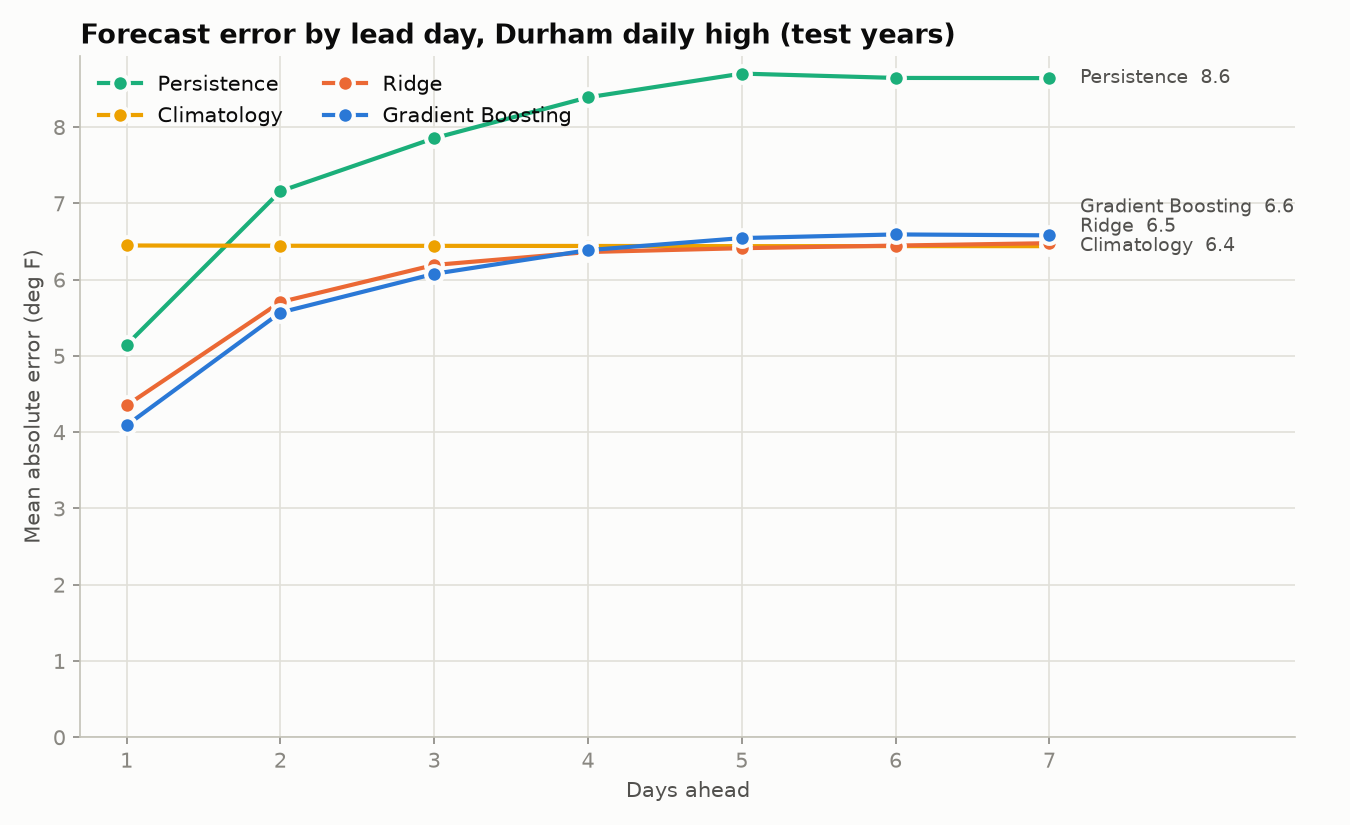
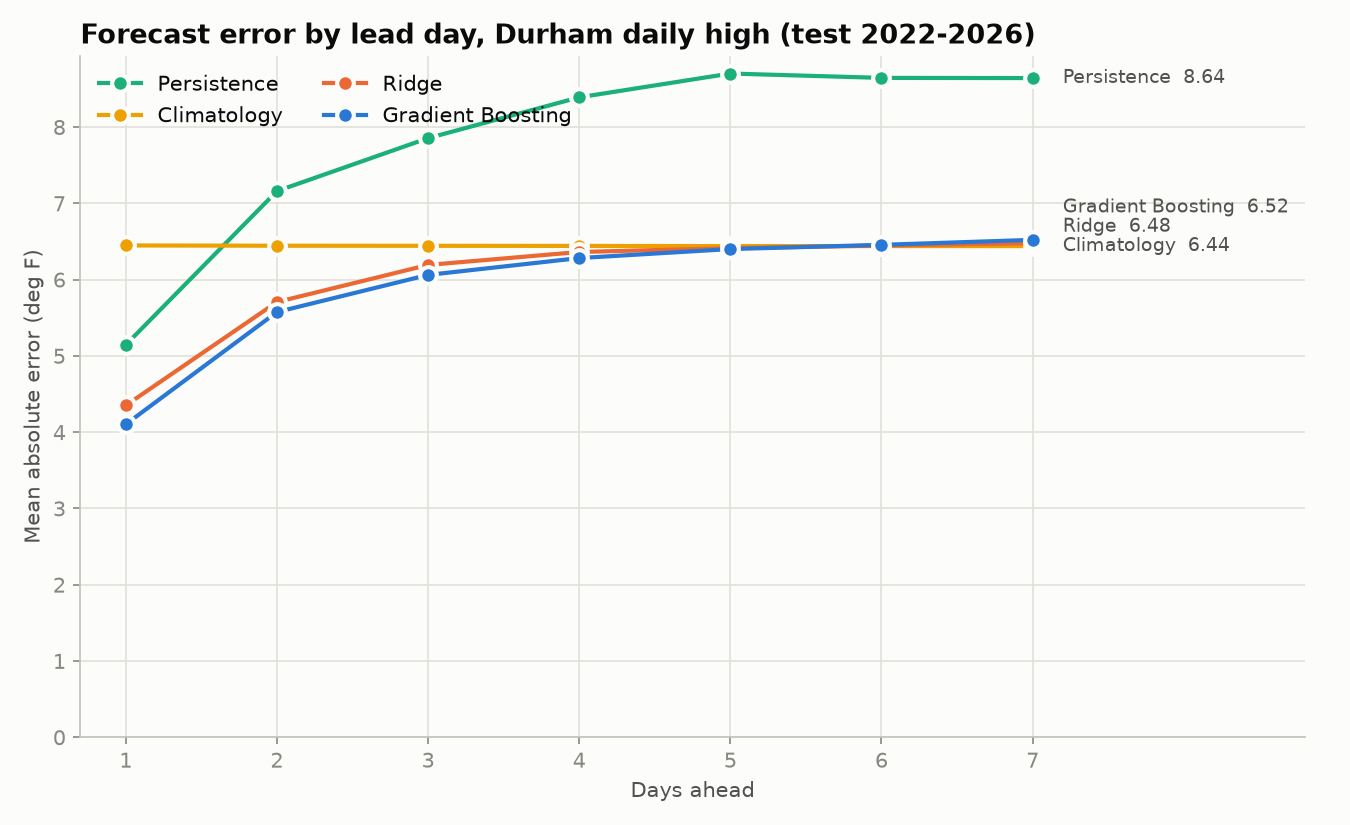
Add skill-by-lead-day chart; show two-decimal labels and test years on error chart

diff --git a/evaluate.py b/evaluate.py
@@ -71,15 +71,51 @@ class Evaluator:
             y_lab = max(y, last + 0.05 * span)
             label_y[name], last = y_lab, y_lab
         for name, y in ends.items():
-            ax.annotate(f"{name}  {y:.1f}", (self.leads[-1], y), xytext=(self.leads[-1] + 0.2, label_y[name]),
+            ax.annotate(f"{name}  {y:.2f}", (self.leads[-1], y), xytext=(self.leads[-1] + 0.2, label_y[name]),
                         textcoords="data", va="center", color=INK_2, fontsize=9)
         ax.set_xticks(self.leads)
-        ax.set_xlim(0.7, self.leads[-1] + 1.6)
+        ax.set_xlim(0.7, self.leads[-1] + 1.8)
         ax.set_ylim(bottom=0)
         ax.set_xlabel("Days ahead")
         ax.set_ylabel("Mean absolute error (deg F)")
-        ax.set_title("Forecast error by lead day, Durham daily high (test years)", loc="left")
+        ax.set_title(f"Forecast error by lead day, Durham daily high ({self._test_years()})", loc="left")
         ax.legend(loc="upper left", ncol=2)
+        fig.tight_layout()
+        fig.savefig(path, dpi=150)
+        plt.close(fig)
+
+    def _test_years(self):
+        return f"test {self.Y_true.index[0].year}-{self.Y_true.index[-1].year}"
+
+    def plot_skill_by_lead(self, skill, path, models=("Gradient Boosting", "Ridge")):
+        """
+        Zoomed-in view of the same results: skill vs climatology, where the zero line IS climatology.
+        Above zero = the model beats the seasonal normal; at or below zero = no useful skill left.
+        """
+        fig, ax = plt.subplots(figsize=(9, 5.5))
+        ax.axhline(0, color=MUTED, lw=1.5, ls="--", zorder=1)
+        ax.annotate("Climatology = 0 (no skill)", (self.leads[0], 0), xytext=(self.leads[0] - 0.2, -0.012),
+                    textcoords="data", ha="left", va="top", color=INK_2, fontsize=9)
+
+        for name in models:
+            values = skill.loc[name]
+            ax.plot(self.leads, values, color=COLORS.get(name, INK), lw=2, marker="o", ms=8,
+                    markeredgecolor=SURFACE, markeredgewidth=2, label=name, zorder=3)
+        # Label every point of the best model so the decay is readable without the table.
+        best = models[0]
+        for lead, v in zip(self.leads, skill.loc[best]):
+            text = f"{v:+.2f}".replace("-0.00", "0.00").replace("+0.00", "0.00")
+            ax.annotate(text, (lead, v), xytext=(8, 8), textcoords="offset points",
+                        ha="left", va="bottom", color=INK_2, fontsize=9)
+
+        top = max(skill.loc[list(models)].to_numpy().max(), 0.05)
+        ax.set_ylim(-0.08, top + 0.08)
+        ax.set_xticks(self.leads)
+        ax.set_xlim(0.7, self.leads[-1] + 1.8)
+        ax.set_xlabel("Days ahead")
+        ax.set_ylabel("Skill = 1 - MAE / MAE of climatology")
+        ax.set_title(f"How long does the model beat the seasonal normal? ({self._test_years()})", loc="left")
+        ax.legend(loc="upper right")
         fig.tight_layout()
         fig.savefig(path, dpi=150)
         plt.close(fig)

diff --git a/main.py b/main.py
@@ -84,6 +84,7 @@ def train_and_evaluate(refresh=False, tune=False):
 
     # ---- 6. Charts
     ev.plot_error_by_lead(mae, config.PLOT_DIR / "error_by_lead_day.png")
+    ev.plot_skill_by_lead(skill, config.PLOT_DIR / "skill_by_lead_day.png")
     ev.plot_forecast_vs_actual(predictions, "Gradient Boosting", config.PLOT_DIR / "forecast_vs_actual.png",
                                start=f"{X_test.index[0].year}-01-01", days=120)
     print("\nComputing feature importance (takes ~30s)...")
